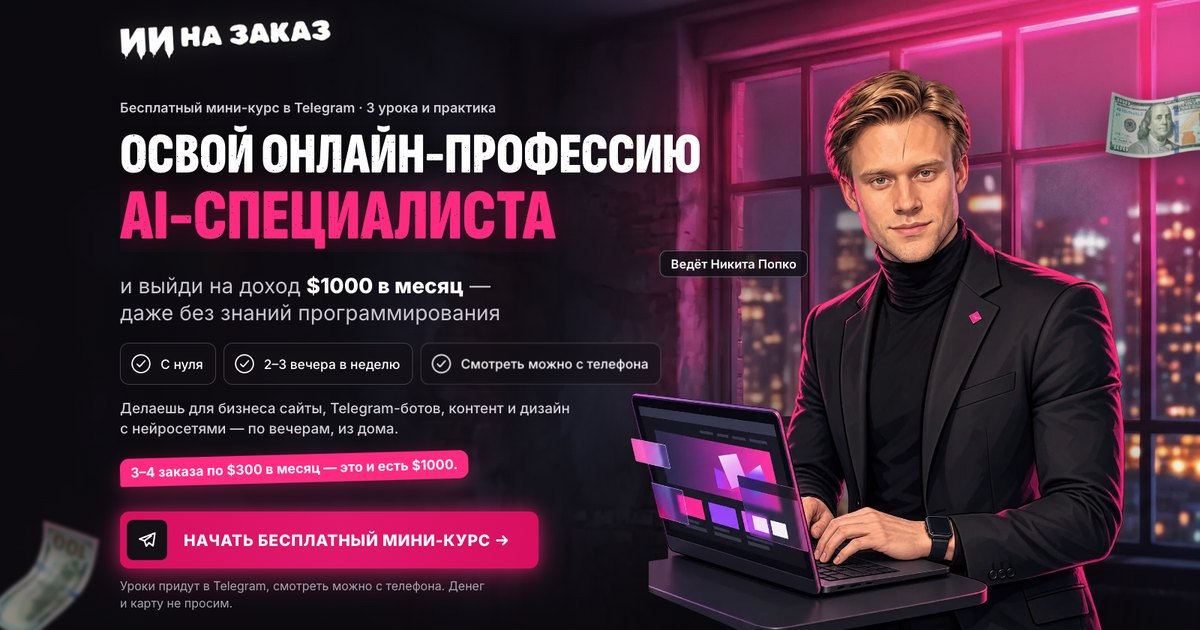
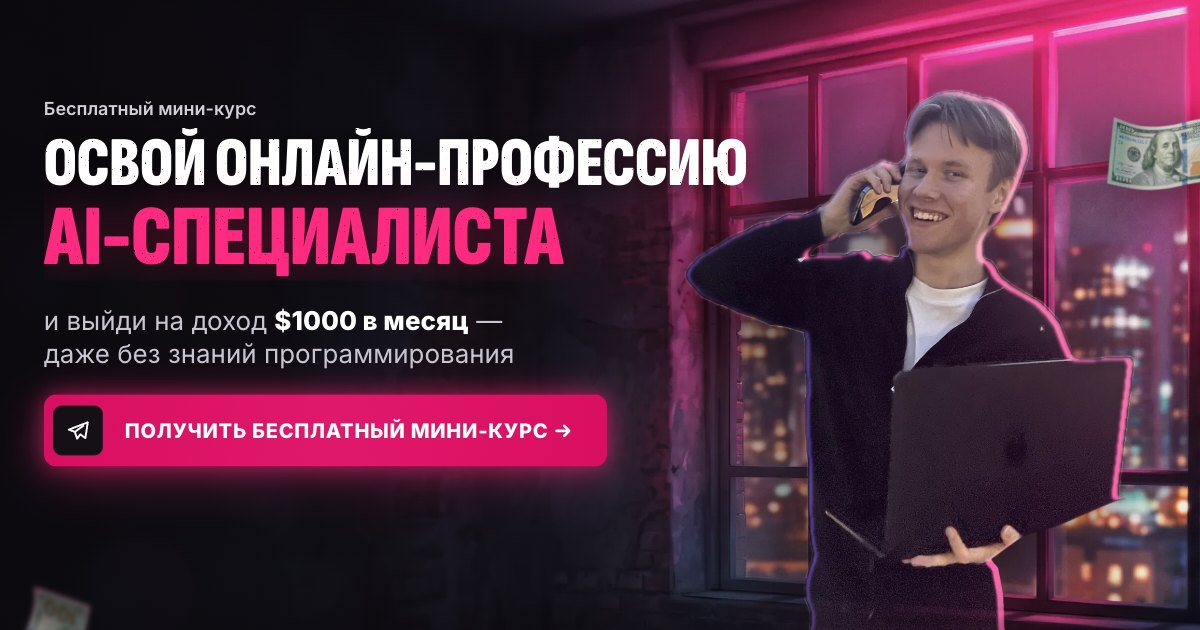
feat: фото Никиты «неон-контур» — основная версия первого экрана и «Кто ведёт»
Вася выбрал обработку «неон-контур» из пяти. Нарисованные nikita_desk и
nikita_crossed и остальные обработки удалены, метка ?photo= больше не нужна.
Раскладка под фото по пояс — теперь по умолчанию: длиннее сцена первого
экрана на телефоне и планшете, правая плашка «Кто ведёт» внизу.
Превью ссылки og.jpg переснято с новым первым экраном.

diff --git a/css/mini.css b/css/mini.css
@@ -21,14 +21,10 @@ html[data-hero="b"] .hero-person--laptop{aspect-ratio:1/1;width:clamp(600px, 50v
   mask-image:linear-gradient(0deg,transparent 0,#000 9%),linear-gradient(270deg,transparent 0,#000 7%);mask-composite:intersect}
 .hero .hv-c{-webkit-mask-image:linear-gradient(0deg,transparent 0,#000 9%),linear-gradient(90deg,transparent 0,#000 7%);-webkit-mask-composite:source-in;
   mask-image:linear-gradient(0deg,transparent 0,#000 9%),linear-gradient(90deg,transparent 0,#000 7%);mask-composite:intersect}
-/* настоящие фото Никиты на проверку (Вася 21.10, ?photo=real|neon|night|duo|paint): первый экран — звонок клиенту с ноутбуком, «Кто ведёт» — выступление с микрофоном.
-   Фото обрезано по бёдрам и по поясу — низ гасим длиннее, чем у нарисованных */
-.hero .hv-r,.lead-sec .cut--real{display:none}
-/* обработка фото под неон сайта (Вася 21.10, выбирает): real — как есть, neon — розовая кромка, night — цветной свет, duo — дуотон, paint — «под рисунок» */
-html[data-photo] .hero .hv-a,html[data-photo] .hero .hv-b,html[data-photo] .hero .hv-c,html[data-photo] .lead-sec .cut--drawn{display:none}
-html[data-photo="real"] .hero .hv-r[data-look="real"],html[data-photo="real"] .lead-sec .cut--real[data-look="real"],html[data-photo="neon"] .hero .hv-r[data-look="neon"],html[data-photo="neon"] .lead-sec .cut--real[data-look="neon"],html[data-photo="night"] .hero .hv-r[data-look="night"],html[data-photo="night"] .lead-sec .cut--real[data-look="night"],html[data-photo="duo"] .hero .hv-r[data-look="duo"],html[data-photo="duo"] .lead-sec .cut--real[data-look="duo"],html[data-photo="paint"] .hero .hv-r[data-look="paint"],html[data-photo="paint"] .lead-sec .cut--real[data-look="paint"]{display:block}
-.hero .hv-r{-webkit-mask-image:linear-gradient(0deg,transparent 0,#000 22%);mask-image:linear-gradient(0deg,transparent 0,#000 22%)}
-.lead-sec .cut--real{-webkit-mask-image:linear-gradient(180deg,#000 70%,transparent 97%),linear-gradient(90deg,transparent 0,#000 9%,#000 91%,transparent 100%);-webkit-mask-composite:source-in;
+/* настоящие фото Никиты в обработке «неон-контур» (Вася 21.10): первый экран — звонок клиенту с ноутбуком, «Кто ведёт» — выступление с микрофоном.
+   Фото обрезано по бёдрам и по поясу — низ гасим длиннее, чем у нарисованных картинок образца */
+.hero .hv-a{-webkit-mask-image:linear-gradient(0deg,transparent 0,#000 22%);mask-image:linear-gradient(0deg,transparent 0,#000 22%)}
+.lead-sec .cut--photo{-webkit-mask-image:linear-gradient(180deg,#000 70%,transparent 97%),linear-gradient(90deg,transparent 0,#000 9%,#000 91%,transparent 100%);-webkit-mask-composite:source-in;
   mask-image:linear-gradient(180deg,#000 70%,transparent 97%),linear-gradient(90deg,transparent 0,#000 9%,#000 91%,transparent 100%);mask-composite:intersect}
 
 /* хуки рекламы: все 8 заголовков в разметке, нужный выбирает скрипт в <head> атрибутом data-hook на <html> — без мигания и без JS для показа */
@@ -52,8 +48,8 @@ html[data-hook="home"] .hero [data-hook-for="home"]{display:block}
   .hero-copy>#cta-hero{order:4}.hero-copy>.hero-scene{order:5}
   .hero .btn{align-self:flex-start}
   .hero-person--laptop{left:calc(50% - 250px);top:0;width:500px}
-  /* настоящее фото выше нарисованного: сцена длиннее, чтобы растушёвка низа начиналась под ноутбуком, а не на нём */
-  html[data-photo] .hero-copy>.hero-scene{height:clamp(420px, 78vw, 640px)}
+  /* фото Никиты выше нарисованных картинок образца: сцена длиннее, чтобы растушёвка низа начиналась под ноутбуком, а не на нём */
+  .hero-copy>.hero-scene{height:clamp(420px, 78vw, 640px)}
 }
 @media (max-width:767px){
   .hero-copy{padding-top:20px}
@@ -64,7 +60,7 @@ html[data-hook="home"] .hero [data-hook-for="home"]{display:block}
   html[data-hero="b"] .hero-person--laptop{right:auto;left:-6px;width:calc(100% + 12px);top:-34px}
   html[data-hero="b"] .hero-copy{padding-top:0}
   html[data-hero="b"] .hero-copy>.hero-scene{order:-1;height:clamp(240px, 68vw, 290px);margin:0 calc(-1*var(--pad-x)) 4px}   /* B: картинка первой */
-  html[data-photo] .hero-copy>.hero-scene{height:clamp(380px, 112vw, 470px)}
+  .hero-copy>.hero-scene{height:clamp(380px, 112vw, 470px)}
   .dock-in{white-space:normal}
 }
 
@@ -261,15 +257,14 @@ html[data-hook="home"] .hero [data-hook-for="home"]{display:block}
   .lead-sec .mentor-art .cut{width:clamp(330px, 28vw, 420px);bottom:-150px}
   .regalia--team .rg{max-width:270px}
   .regalia--team .rg b{font-size:clamp(28px, 20px + 1.3vw, 40px)}
-  .regalia--team .rg2{top:40%}
+  .regalia--team .rg2{top:78%}   /* правая плашка — внизу на футболке: выше она закрывала бы лицо и микрофон */
   .regalia--team .rg3{top:66%}
-  /* настоящее фото по пояс: лицо и микрофон над плашками, правая плашка уходит вниз на футболку */
-  html[data-photo] .lead-sec .mentor-art .cut--real{width:clamp(380px, 31vw, 450px);left:18%;top:24px;bottom:auto;transform:none}
-  html[data-photo] .regalia--team .rg2{top:78%}
+  /* фото по пояс: лицо и микрофон над плашками */
+  .lead-sec .mentor-art .cut--photo{width:clamp(380px, 31vw, 450px);left:18%;top:24px;bottom:auto;transform:none}
 }
-/* планшет: настоящее фото по пояс ставим от верха колонки — привязка низа из образца рассчитана на рост в полный рост */
+/* планшет: фото по пояс ставим от верха колонки — привязка низа из образца рассчитана на фигуру в полный рост */
 @media (min-width:768px) and (max-width:1099px){
-  html[data-photo] .lead-sec .mentor-art .cut--real{top:clamp(90px, 14vw, 160px);bottom:auto;transform:translateX(-58%)}
+  .lead-sec .mentor-art .cut--photo{top:clamp(90px, 14vw, 160px);bottom:auto;transform:translateX(-58%)}
 }
 /* телефон: заголовок → Никита по пояс → имя на краю фото → регалии строками → список; блок вдвое короче */
 @media (max-width:767px){

diff --git a/ru/index.html b/ru/index.html
@@ -20,7 +20,7 @@
 <link rel="apple-touch-icon" href="../assets/apple-touch-icon.png">
 <link rel="preload" href="../assets/img/bg_hero_d.webp" as="image" media="(min-width: 768px)">
 <script id="hook-head">/* до отрисовки: какой заголовок показать по метке utm_content (логика = pickHook из js/hooks.js) */
-(function(){try{var w=(new URLSearchParams(location.search).get('utm_content')||'').toLowerCase().split(/[^a-z0-9]+/).filter(Boolean),k=null,i=w.indexOf('math');if(i!==-1){k=w[i+1]==='a'?'math_a':'math_b';}else{var keys=['compare','clients','zero','home','now'];for(var j=0;j<keys.length;j++){if(w.indexOf(keys[j])!==-1){k=keys[j];break;}}}if(k){document.documentElement.setAttribute('data-hook',k);}var h=(new URLSearchParams(location.search).get('hero')||'').toLowerCase();if(h==='b'||h==='c'){document.documentElement.setAttribute('data-hero',h);}var ph=(new URLSearchParams(location.search).get('photo')||'').toLowerCase();if(['real','neon','night','duo','paint'].indexOf(ph)!==-1){document.documentElement.setAttribute('data-photo',ph);}}catch(e){}})();</script>
+(function(){try{var w=(new URLSearchParams(location.search).get('utm_content')||'').toLowerCase().split(/[^a-z0-9]+/).filter(Boolean),k=null,i=w.indexOf('math');if(i!==-1){k=w[i+1]==='a'?'math_a':'math_b';}else{var keys=['compare','clients','zero','home','now'];for(var j=0;j<keys.length;j++){if(w.indexOf(keys[j])!==-1){k=keys[j];break;}}}if(k){document.documentElement.setAttribute('data-hook',k);}var h=(new URLSearchParams(location.search).get('hero')||'').toLowerCase();if(h==='b'||h==='c'){document.documentElement.setAttribute('data-hero',h);}}catch(e){}})();</script>
 <script id="meta-pixel">/* Пиксель Meta: датасет UZ_course_pix (3217856658404769) в БМ кабинета «Uzbekustan RK». Lead — нажатие кнопки в бота, js/main.js.
    Под автотестами (navigator.webdriver) пиксель не грузим, чтобы проверки не слали события в Meta. */
 if (!navigator.webdriver) {
@@ -35,7 +35,7 @@ fbq('track', 'PageView');
 </script>
 <link rel="stylesheet" href="../css/fonts.css?v=35aa182b">
 <link rel="stylesheet" href="../css/style.css?v=73daaa35">
-<link rel="stylesheet" href="../css/mini.css?v=2f14ebcf">
+<link rel="stylesheet" href="../css/mini.css?v=8dbf0469">
 <script type="module" src="../js/main.js?v=4002aa96"></script>
 </head>
 <body>
@@ -72,14 +72,9 @@ fbq('track', 'PageView');
         <div class="hero-scene">
           <div class="glow hero-glow" aria-hidden="true"></div>
           <div class="hero-person hero-person--laptop">
-            <img class="hv hv-a" src="../assets/img/nikita_desk.webp" alt="Никита Попко за ноутбуком собирает сайт" width="896" height="1120" fetchpriority="high">
+            <img class="hv hv-a" src="../assets/img/nikita_neon_phone.webp" alt="Никита Попко говорит с клиентом по телефону, в руке ноутбук" width="1080" height="1350" fetchpriority="high">
             <img class="hv hv-b" src="../assets/img/nikita_client.webp" alt="Никита Попко показывает готовый сайт владельцу пекарни" width="1400" height="1400" loading="lazy">
             <img class="hv hv-c" src="../assets/img/nikita_orders.webp" alt="Никита Попко с ноутбуком, рядом переписка с заказом, бот и монеты" width="1200" height="1500" loading="lazy">
-            <img class="hv hv-r" data-look="real" src="../assets/img/nikita_real_phone.webp" alt="Никита Попко говорит с клиентом по телефону, в руке ноутбук" width="1080" height="1350" loading="lazy">
-            <img class="hv hv-r" data-look="neon" src="../assets/img/nikita_neon_phone.webp" alt="Никита Попко говорит с клиентом по телефону, в руке ноутбук" width="1080" height="1350" loading="lazy">
-            <img class="hv hv-r" data-look="night" src="../assets/img/nikita_night_phone.webp" alt="Никита Попко говорит с клиентом по телефону, в руке ноутбук" width="1080" height="1350" loading="lazy">
-            <img class="hv hv-r" data-look="duo" src="../assets/img/nikita_duo_phone.webp" alt="Никита Попко говорит с клиентом по телефону, в руке ноутбук" width="1080" height="1350" loading="lazy">
-            <img class="hv hv-r" data-look="paint" src="../assets/img/nikita_paint_phone.webp" alt="Никита Попко говорит с клиентом по телефону, в руке ноутбук" width="1080" height="1350" loading="lazy">
           </div>
         </div>
 
@@ -257,12 +252,7 @@ fbq('track', 'PageView');
     </div>
     <div class="mentor-art">
       <div class="glow" aria-hidden="true"></div>
-      <img class="cut cut--drawn" src="../assets/img/nikita_crossed.webp" alt="Никита Попко, основатель агентства AI-разработки" width="737" height="1560" loading="lazy">
-      <img class="cut cut--real" data-look="real" src="../assets/img/nikita_real_mic.webp" alt="Никита Попко, основатель агентства AI-разработки" width="800" height="1110" loading="lazy">
-      <img class="cut cut--real" data-look="neon" src="../assets/img/nikita_neon_mic.webp" alt="Никита Попко, основатель агентства AI-разработки" width="800" height="1110" loading="lazy">
-      <img class="cut cut--real" data-look="night" src="../assets/img/nikita_night_mic.webp" alt="Никита Попко, основатель агентства AI-разработки" width="800" height="1110" loading="lazy">
-      <img class="cut cut--real" data-look="duo" src="../assets/img/nikita_duo_mic.webp" alt="Никита Попко, основатель агентства AI-разработки" width="800" height="1110" loading="lazy">
-      <img class="cut cut--real" data-look="paint" src="../assets/img/nikita_paint_mic.webp" alt="Никита Попко, основатель агентства AI-разработки" width="800" height="1110" loading="lazy">
+      <img class="cut cut--photo" src="../assets/img/nikita_neon_mic.webp" alt="Никита Попко, основатель агентства AI-разработки" width="800" height="1110" loading="lazy">
     </div>
   </div>
 </section>

diff --git a/index.html b/index.html
@@ -20,7 +20,7 @@
 <link rel="apple-touch-icon" href="assets/apple-touch-icon.png">
 <link rel="preload" href="assets/img/bg_hero_d.webp" as="image" media="(min-width: 768px)">
 <script id="hook-head">/* до отрисовки: какой заголовок показать по метке utm_content (логика = pickHook из js/hooks.js) */
-(function(){try{var w=(new URLSearchParams(location.search).get('utm_content')||'').toLowerCase().split(/[^a-z0-9]+/).filter(Boolean),k=null,i=w.indexOf('math');if(i!==-1){k=w[i+1]==='a'?'math_a':'math_b';}else{var keys=['compare','clients','zero','home','now'];for(var j=0;j<keys.length;j++){if(w.indexOf(keys[j])!==-1){k=keys[j];break;}}}if(k){document.documentElement.setAttribute('data-hook',k);}var h=(new URLSearchParams(location.search).get('hero')||'').toLowerCase();if(h==='b'||h==='c'){document.documentElement.setAttribute('data-hero',h);}var ph=(new URLSearchParams(location.search).get('photo')||'').toLowerCase();if(['real','neon','night','duo','paint'].indexOf(ph)!==-1){document.documentElement.setAttribute('data-photo',ph);}}catch(e){}})();</script>
+(function(){try{var w=(new URLSearchParams(location.search).get('utm_content')||'').toLowerCase().split(/[^a-z0-9]+/).filter(Boolean),k=null,i=w.indexOf('math');if(i!==-1){k=w[i+1]==='a'?'math_a':'math_b';}else{var keys=['compare','clients','zero','home','now'];for(var j=0;j<keys.length;j++){if(w.indexOf(keys[j])!==-1){k=keys[j];break;}}}if(k){document.documentElement.setAttribute('data-hook',k);}var h=(new URLSearchParams(location.search).get('hero')||'').toLowerCase();if(h==='b'||h==='c'){document.documentElement.setAttribute('data-hero',h);}}catch(e){}})();</script>
 <script id="meta-pixel">/* Пиксель Meta: датасет UZ_course_pix (3217856658404769) в БМ кабинета «Uzbekustan RK». Lead — нажатие кнопки в бота, js/main.js.
    Под автотестами (navigator.webdriver) пиксель не грузим, чтобы проверки не слали события в Meta. */
 if (!navigator.webdriver) {
@@ -35,7 +35,7 @@ fbq('track', 'PageView');
 </script>
 <link rel="stylesheet" href="css/fonts.css?v=35aa182b">
 <link rel="stylesheet" href="css/style.css?v=73daaa35">
-<link rel="stylesheet" href="css/mini.css?v=2f14ebcf">
+<link rel="stylesheet" href="css/mini.css?v=8dbf0469">
 <script type="module" src="js/main.js?v=4002aa96"></script>
 </head>
 <body>
@@ -72,14 +72,9 @@ fbq('track', 'PageView');
         <div class="hero-scene">
           <div class="glow hero-glow" aria-hidden="true"></div>
           <div class="hero-person hero-person--laptop">
-            <img class="hv hv-a" src="assets/img/nikita_desk.webp" alt="Nikita Popko noutbukda sayt yasamoqda" width="896" height="1120" fetchpriority="high">
+            <img class="hv hv-a" src="assets/img/nikita_neon_phone.webp" alt="Nikita Popko mijoz bilan telefonda gaplashmoqda, qo‘lida noutbuk" width="1080" height="1350" fetchpriority="high">
             <img class="hv hv-b" src="assets/img/nikita_client.webp" alt="Nikita Popko novvoyxona egasiga tayyor saytni ko‘rsatmoqda" width="1400" height="1400" loading="lazy">
             <img class="hv hv-c" src="assets/img/nikita_orders.webp" alt="Nikita Popko noutbuk bilan, yonida buyurtma haqidagi yozishma, bot va tangalar" width="1200" height="1500" loading="lazy">
-            <img class="hv hv-r" data-look="real" src="assets/img/nikita_real_phone.webp" alt="Nikita Popko mijoz bilan telefonda gaplashmoqda, qo‘lida noutbuk" width="1080" height="1350" loading="lazy">
-            <img class="hv hv-r" data-look="neon" src="assets/img/nikita_neon_phone.webp" alt="Nikita Popko mijoz bilan telefonda gaplashmoqda, qo‘lida noutbuk" width="1080" height="1350" loading="lazy">
-            <img class="hv hv-r" data-look="night" src="assets/img/nikita_night_phone.webp" alt="Nikita Popko mijoz bilan telefonda gaplashmoqda, qo‘lida noutbuk" width="1080" height="1350" loading="lazy">
-            <img class="hv hv-r" data-look="duo" src="assets/img/nikita_duo_phone.webp" alt="Nikita Popko mijoz bilan telefonda gaplashmoqda, qo‘lida noutbuk" width="1080" height="1350" loading="lazy">
-            <img class="hv hv-r" data-look="paint" src="assets/img/nikita_paint_phone.webp" alt="Nikita Popko mijoz bilan telefonda gaplashmoqda, qo‘lida noutbuk" width="1080" height="1350" loading="lazy">
           </div>
         </div>
 
@@ -257,12 +252,7 @@ fbq('track', 'PageView');
     </div>
     <div class="mentor-art">
       <div class="glow" aria-hidden="true"></div>
-      <img class="cut cut--drawn" src="assets/img/nikita_crossed.webp" alt="Nikita Popko, AI yechimlari agentligi asoschisi" width="737" height="1560" loading="lazy">
-      <img class="cut cut--real" data-look="real" src="assets/img/nikita_real_mic.webp" alt="Nikita Popko, AI yechimlari agentligi asoschisi" width="800" height="1110" loading="lazy">
-      <img class="cut cut--real" data-look="neon" src="assets/img/nikita_neon_mic.webp" alt="Nikita Popko, AI yechimlari agentligi asoschisi" width="800" height="1110" loading="lazy">
-      <img class="cut cut--real" data-look="night" src="assets/img/nikita_night_mic.webp" alt="Nikita Popko, AI yechimlari agentligi asoschisi" width="800" height="1110" loading="lazy">
-      <img class="cut cut--real" data-look="duo" src="assets/img/nikita_duo_mic.webp" alt="Nikita Popko, AI yechimlari agentligi asoschisi" width="800" height="1110" loading="lazy">
-      <img class="cut cut--real" data-look="paint" src="assets/img/nikita_paint_mic.webp" alt="Nikita Popko, AI yechimlari agentligi asoschisi" width="800" height="1110" loading="lazy">
+      <img class="cut cut--photo" src="assets/img/nikita_neon_mic.webp" alt="Nikita Popko, AI yechimlari agentligi asoschisi" width="800" height="1110" loading="lazy">
     </div>
   </div>
 </section>

diff --git a/src/index.src.html b/src/index.src.html
@@ -65,14 +65,9 @@ fbq('track', 'PageView');
         <div class="hero-scene">
           <div class="glow hero-glow" aria-hidden="true"></div>
           <div class="hero-person hero-person--laptop">
-            <img class="hv hv-a" src="assets/img/nikita_desk.webp" alt="Никита Попко за ноутбуком собирает сайт" width="896" height="1120" fetchpriority="high">
+            <img class="hv hv-a" src="assets/img/nikita_neon_phone.webp" alt="Никита Попко говорит с клиентом по телефону, в руке ноутбук" width="1080" height="1350" fetchpriority="high">
             <img class="hv hv-b" src="assets/img/nikita_client.webp" alt="Никита Попко показывает готовый сайт владельцу пекарни" width="1400" height="1400" loading="lazy">
             <img class="hv hv-c" src="assets/img/nikita_orders.webp" alt="Никита Попко с ноутбуком, рядом переписка с заказом, бот и монеты" width="1200" height="1500" loading="lazy">
-            <img class="hv hv-r" data-look="real" src="assets/img/nikita_real_phone.webp" alt="Никита Попко говорит с клиентом по телефону, в руке ноутбук" width="1080" height="1350" loading="lazy">
-            <img class="hv hv-r" data-look="neon" src="assets/img/nikita_neon_phone.webp" alt="Никита Попко говорит с клиентом по телефону, в руке ноутбук" width="1080" height="1350" loading="lazy">
-            <img class="hv hv-r" data-look="night" src="assets/img/nikita_night_phone.webp" alt="Никита Попко говорит с клиентом по телефону, в руке ноутбук" width="1080" height="1350" loading="lazy">
-            <img class="hv hv-r" data-look="duo" src="assets/img/nikita_duo_phone.webp" alt="Никита Попко говорит с клиентом по телефону, в руке ноутбук" width="1080" height="1350" loading="lazy">
-            <img class="hv hv-r" data-look="paint" src="assets/img/nikita_paint_phone.webp" alt="Никита Попко говорит с клиентом по телефону, в руке ноутбук" width="1080" height="1350" loading="lazy">
           </div>
         </div>
 
@@ -250,12 +245,7 @@ fbq('track', 'PageView');
     </div>
     <div class="mentor-art">
       <div class="glow" aria-hidden="true"></div>
-      <img class="cut cut--drawn" src="assets/img/nikita_crossed.webp" alt="Никита Попко, основатель агентства AI-разработки" width="737" height="1560" loading="lazy">
-      <img class="cut cut--real" data-look="real" src="assets/img/nikita_real_mic.webp" alt="Никита Попко, основатель агентства AI-разработки" width="800" height="1110" loading="lazy">
-      <img class="cut cut--real" data-look="neon" src="assets/img/nikita_neon_mic.webp" alt="Никита Попко, основатель агентства AI-разработки" width="800" height="1110" loading="lazy">
-      <img class="cut cut--real" data-look="night" src="assets/img/nikita_night_mic.webp" alt="Никита Попко, основатель агентства AI-разработки" width="800" height="1110" loading="lazy">
-      <img class="cut cut--real" data-look="duo" src="assets/img/nikita_duo_mic.webp" alt="Никита Попко, основатель агентства AI-разработки" width="800" height="1110" loading="lazy">
-      <img class="cut cut--real" data-look="paint" src="assets/img/nikita_paint_mic.webp" alt="Никита Попко, основатель агентства AI-разработки" width="800" height="1110" loading="lazy">
+      <img class="cut cut--photo" src="assets/img/nikita_neon_mic.webp" alt="Никита Попко, основатель агентства AI-разработки" width="800" height="1110" loading="lazy">
     </div>
   </div>
 </section>

diff --git a/scripts/build.py b/scripts/build.py
@@ -35,10 +35,7 @@ HEAD_HOOK_SCRIPT = (
     "if(k){document.documentElement.setAttribute('data-hook',k);}"
     # вариант первого экрана для выбора (?hero=b|c), без метки — вариант a
     "var h=(new URLSearchParams(location.search).get('hero')||'').toLowerCase();"
-    "if(h==='b'||h==='c'){document.documentElement.setAttribute('data-hero',h);}"
-    # настоящие фото Никиты на первом экране и в «Кто ведёт» на проверку (?photo=real|neon|night|duo|paint), без метки — нарисованные
-    "var ph=(new URLSearchParams(location.search).get('photo')||'').toLowerCase();"
-    "if(['real','neon','night','duo','paint'].indexOf(ph)!==-1){document.documentElement.setAttribute('data-photo',ph);}}catch(e){}})();</script>"
+    "if(h==='b'||h==='c'){document.documentElement.setAttribute('data-hero',h);}}catch(e){}})();</script>"
 )
 
 SHORT_WORDS = (

diff --git a/scripts/qa.py b/scripts/qa.py
@@ -21,7 +21,7 @@ from playwright.sync_api import sync_playwright
 ROOT = Path(__file__).resolve().parent.parent
 VIEWS = [(1440, 900), (1024, 768), (768, 1024), (390, 844), (375, 667), (320, 568)]
 HOOKS = ["", "compare", "math_a", "math_b", "now", "zero", "clients", "home"]
-HERO_VARIANTS = ["hero=b", "hero=c", "photo=real", "photo=neon", "photo=night", "photo=duo", "photo=paint"]  # варианты первого экрана на выбор и настоящие фото Никиты: кнопка тоже в первом экране
+HERO_VARIANTS = ["hero=b", "hero=c"]  # варианты первого экрана на выбор: кнопка тоже в первом экране
 
 
 def serve() -> tuple[str, socketserver.TCPServer]:

diff --git a/README.md b/README.md
@@ -51,27 +51,16 @@
 
 | Ссылка | Что |
 |---|---|
-| `/` | A — Никита за ноутбуком; на телефоне текст, кнопка, потом картинка |
+| `/` | A — фото Никиты: говорит с клиентом по телефону, ноутбук в руке; на телефоне текст, кнопка, потом картинка |
 | `/?hero=b` | B — Никита показывает сайт владельцу пекарни; на телефоне картинка первой |
 | `/?hero=c` | C — Никита с перепиской, ботом и монетами |
 
 Метку ставит тот же скрипт в `<head>` (`data-hero` на `<html>`), картинки переключает `css/mini.css`.
 
-### Настоящие фото Никиты — на проверке у Васи (21.10)
+### Фото Никиты
 
-Вместо нарисованного Никиты — настоящие фото: на первом экране он говорит по телефону с ноутбуком в руке, в «Кто ведёт» выступает с микрофоном. Пять обработок на выбор, ссылки работают и в `/ru/`:
-
-| Ссылка | Обработка |
-|---|---|
-| `/?photo=real` | как есть, только вырезан фон |
-| `/?photo=neon` | палитра сайта, розовая кромка со стороны окна |
-| `/?photo=night` | цветной свет: справа розовый от окна, слева фиолетовый |
-| `/?photo=duo` | дуотон в цветах сайта, как постер |
-| `/?photo=paint` | мягкая «цифровая живопись» + неоновый свет |
-
-Без метки стоят нарисованные. Метка — `data-photo` на `<html>`, картинки — `assets/img/nikita_<обработка>_phone.webp` и `..._mic.webp`, правила — в `css/mini.css` рядом с вариантами первого экрана. После выбора Васи оставить одну обработку и сделать её основной.
-
-Фото выбраны из архива Никиты: исходники, вырезки и скрипты вырезки фона (Vision в macOS) — `research/13-lending-intensiva/фото-никиты/`.
+С 21.10.2026 на первом экране и в «Кто ведёт» — настоящие фото Никиты вместо нарисованных (выбрал Вася): на первом экране он говорит по телефону с ноутбуком в руке (`assets/img/nikita_neon_phone.webp`), в «Кто ведёт» выступает с микрофоном (`assets/img/nikita_neon_mic.webp`). Обработка «неон-контур»: палитра сайта и розовая кромка со стороны окна. Варианты B и C первого экрана по-прежнему нарисованные.
+Исходники, вырезки и скрипты (вырезка фона Vision в macOS, обработка, выгрузка в webp) — `research/13-lending-intensiva/фото-никиты/`.
 
 ## Бонус-«файл» и кадры уроков
 

diff --git a/SOURCE.md b/SOURCE.md
@@ -10,7 +10,7 @@ https://npopko55-cmd.github.io/ii-na-zakaz/ (репозиторий github.com/n
 |---|---|---|
 | Стили | `css/style.css`, `css/fonts.css` | байт в байт с коммитом 453d85f: `shasum -a 256 css/style.css` → `73daaa35…`, `css/fonts.css` → `35aa182b…` |
 | Шрифты | `assets/fonts/*.woff2` | лицензия — `assets/fonts/OFL.txt` |
-| Картинки | `assets/img/`: `bg_hero_*`, `bg_desk_*`, `bill_*`, `nikita_crossed`, `nikita_phone`, `nikita_present`, `ic_*`, `map_iso`, `pin`, `old_desk`, `neon_laptop`, `laptop_build`, `medal_coin`, `shield` | имена как у образца |
+| Картинки | `assets/img/`: `bg_hero_*`, `bg_desk_*`, `bill_*`, `nikita_phone`, `nikita_present`, `ic_*`, `map_iso`, `pin`, `old_desk`, `neon_laptop`, `laptop_build`, `medal_coin`, `shield` | имена как у образца |
 | Рваные края, силуэт города, иконки | `src/parts.json` | вырезаны из `index.html` образца |
 | Иконки сайта | `assets/favicon-64.png`, `assets/apple-touch-icon.png` | — |
 
@@ -28,7 +28,8 @@ https://npopko55-cmd.github.io/ii-na-zakaz/ (репозиторий github.com/n
   - `nikita_client` — Никита показывает сайт владельцу пекарни (вариант B).
   - `nikita_orders` — Никита с ноутбуком, рядом переписка, бот и монеты (вариант C).
 - **`nikita_talk`, `nikita_face`** — вырезаны из `nikita_present` образца для кадров уроков.
-- **`assets/og.jpg`** — снимок первого экрана, 1200×630.
+- **Фото Никиты**, 21.10.2026 — из архива Никиты «Мои фото для узбекистана» (Telegram, 20.10): IMG_4044 (май 2024) на первый экран, сторис 03.08.2024 с микрофоном — в «Кто ведёт». Фон вырезан Vision в macOS, обработка «неон-контур» выбрана Васей из пяти. Файлы `nikita_neon_phone`, `nikita_neon_mic`; заменили нарисованные `nikita_desk` и `nikita_crossed` (удалены с сайта). Исходники и скрипты — `research/13-lending-intensiva/фото-никиты/`.
+- **`assets/og.jpg`** — снимок первого экрана, 1200×630 (21.10.2026 переснят с фото Никиты, русская версия).
 - **`js/attribution.js`** — из `websites/intensiv-site/src/lib/attribution.js` (метка в параметр start бота). Буква версии — `m`.
 - **Раскладки трёх новых блоков** — Superdesign MCP, по 2 варианта, все в `superdesign/`. Выбраны `band_after_hero_1`, `lessons_1`, `final_faq_1`.
 - **Тексты** — один в один из `АКТУАЛЬНЫЙ-ЛЕНДИНГ_мини-курс_RU.docx`, согласован 11.10.2026. Сверку делает `scripts/check-texts.mjs`.
